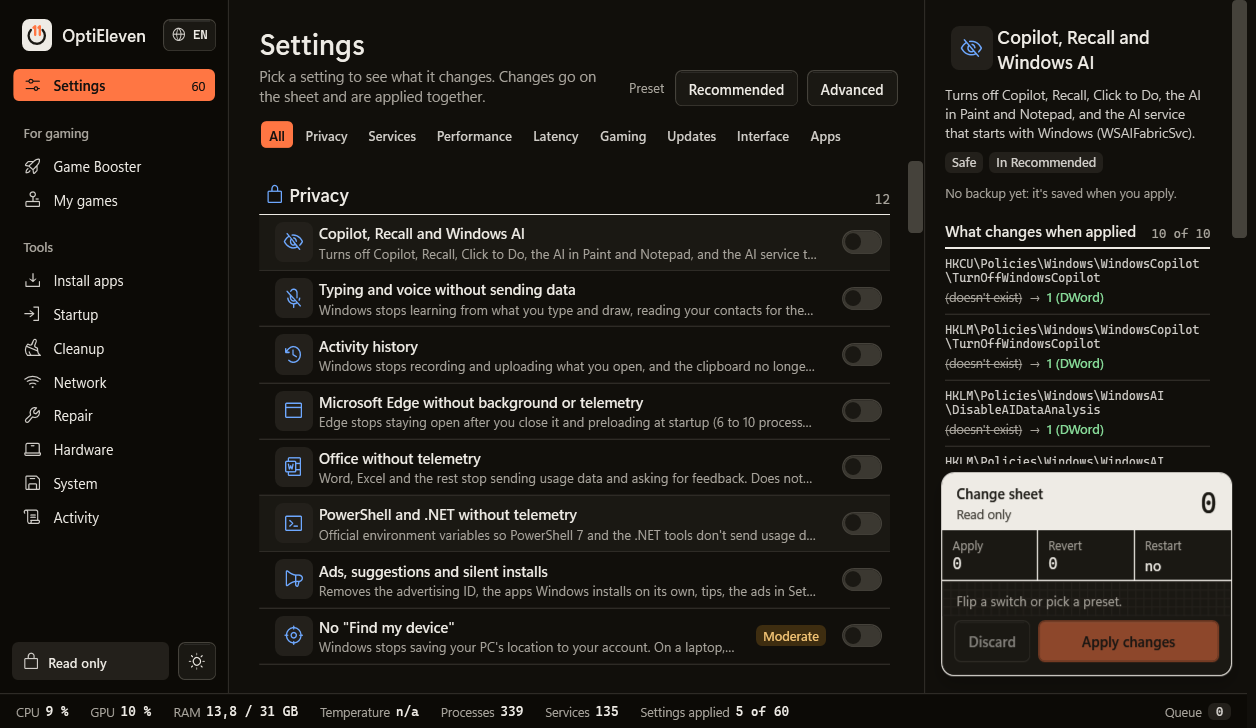
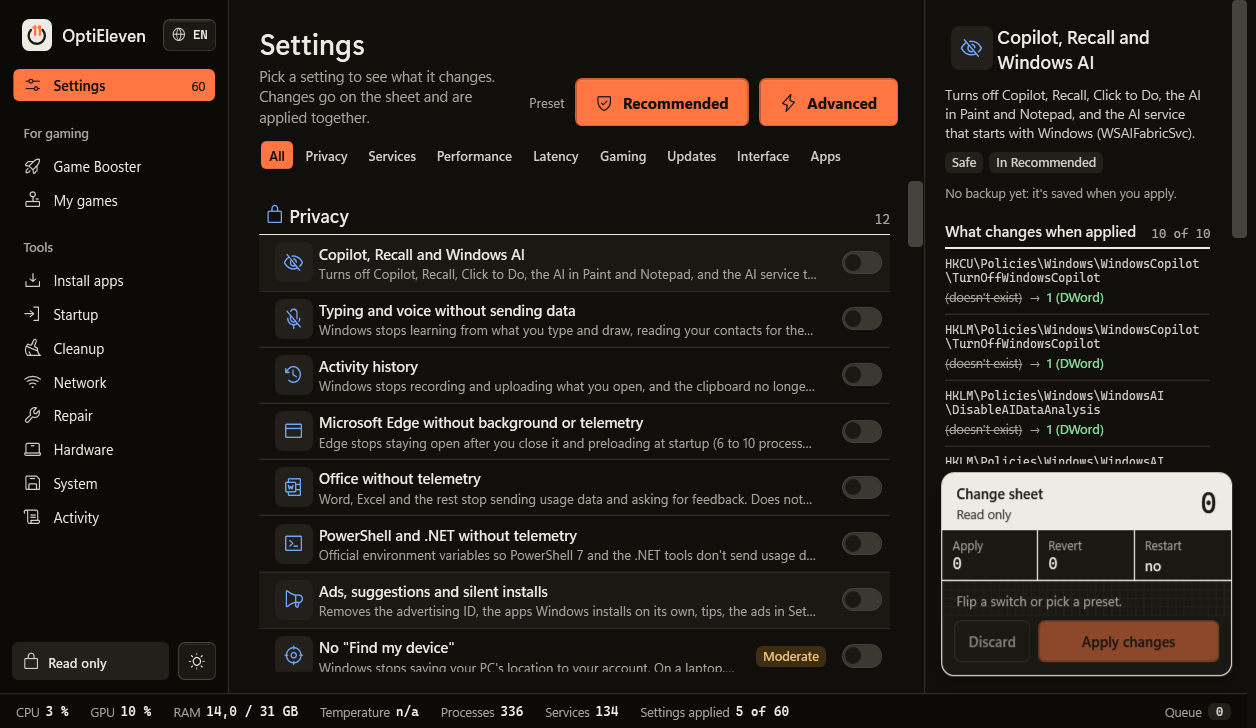
Start notice, big preset buttons, dark theme by default, ready-to-use download

Changed region(s): [[0.1863, 0.0907, 0.7452, 0.9368], [0.7142, 0.2115, 0.7452, 0.2418]]

diff --git a/README.md b/README.md
@@ -12,6 +12,10 @@ Strip telemetry and bloat, free RAM before you play, and undo any change with on
 ![PowerShell 5.1](https://img.shields.io/badge/PowerShell-5.1-14110f)
 ![No install](https://img.shields.io/badge/install-none-14110f)
 
+### [⬇ Download OptiEleven.zip](https://github.com/bilal1122c/OptiEleven/releases/latest/download/OptiEleven.zip)
+
+Ready to use. Extract it and double-click `OptiEleven.cmd`. Nothing to build or install.
+
 English · [Español](README.es.md)
 
 <img src="docs/screenshots/settings-dark.png" alt="OptiEleven settings page with the change preview and the change sheet">
@@ -58,12 +62,14 @@ Most "debloat" scripts are a wall of registry edits you run once and hope for th
 
 ## Get started
 
-1. Download the latest release (or **Code → Download ZIP**) and extract it.
-2. Double-click **`OptiEleven\OptiEleven.cmd`** and accept the administrator prompt.
-3. Go to **System → Restore point**, then pick the **Recommended** preset, review the change sheet and press **Apply changes**.
+1. **[Download OptiEleven.zip](https://github.com/bilal1122c/OptiEleven/releases/latest/download/OptiEleven.zip)** and extract it anywhere.
+2. Double-click **`OptiEleven.cmd`** and accept the administrator prompt.
+3. Read the start notice, go to **System → Restore point**, then pick the **Recommended** preset, review the change sheet and press **Apply changes**.
 4. Restart if the panel asks you to.
 
-Without administrator rights the panel opens in read-only mode, so you can look around safely first.
+Requirements: Windows 11. PowerShell 5.1 and .NET are already part of Windows. Without administrator rights the panel opens in read-only mode, so you can look around safely first.
+
+<img src="docs/screenshots/start-warning.png" alt="Start notice explaining that Advanced settings should be used carefully" width="640">
 
 ### Command line
 

diff --git a/README.es.md b/README.es.md
@@ -12,6 +12,10 @@ Quita telemetría y basura, libera RAM antes de jugar y deshaz cualquier cambio 
 ![PowerShell 5.1](https://img.shields.io/badge/PowerShell-5.1-14110f)
 ![Sin instalación](https://img.shields.io/badge/instalaci%C3%B3n-ninguna-14110f)
 
+### [⬇ Descargar OptiEleven.zip](https://github.com/bilal1122c/OptiEleven/releases/latest/download/OptiEleven.zip)
+
+Listo para usar. Descomprímelo y haz doble clic en `OptiEleven.cmd`. No hay nada que compilar ni instalar.
+
 [English](README.md) · Español
 
 <img src="docs/screenshots/settings-dark.png" alt="Página de ajustes de OptiEleven con la vista previa de cambios y la hoja de cambios">
@@ -47,9 +51,9 @@ La mayoría de scripts de "debloat" son un montón de cambios en el registro que
 
 ## Empezar
 
-1. Descarga la última versión (o **Code → Download ZIP**) y descomprímela.
-2. Haz doble clic en **`OptiEleven\OptiEleven.cmd`** y acepta el permiso de administrador.
-3. Ve a **Sistema → Punto de restauración**, elige el preset **Recomendado**, revisa la hoja de cambios y pulsa **Aplicar cambios**.
+1. **[Descarga OptiEleven.zip](https://github.com/bilal1122c/OptiEleven/releases/latest/download/OptiEleven.zip)** y descomprímelo donde quieras.
+2. Haz doble clic en **`OptiEleven.cmd`** y acepta el permiso de administrador.
+3. Lee el aviso del inicio, ve a **Sistema → Punto de restauración**, elige el preset **Recomendado**, revisa la hoja de cambios y pulsa **Aplicar cambios**.
 4. Reinicia si el panel te lo pide.
 
 Sin permisos de administrador el panel se abre en modo solo lectura, para que puedas mirarlo todo antes.
